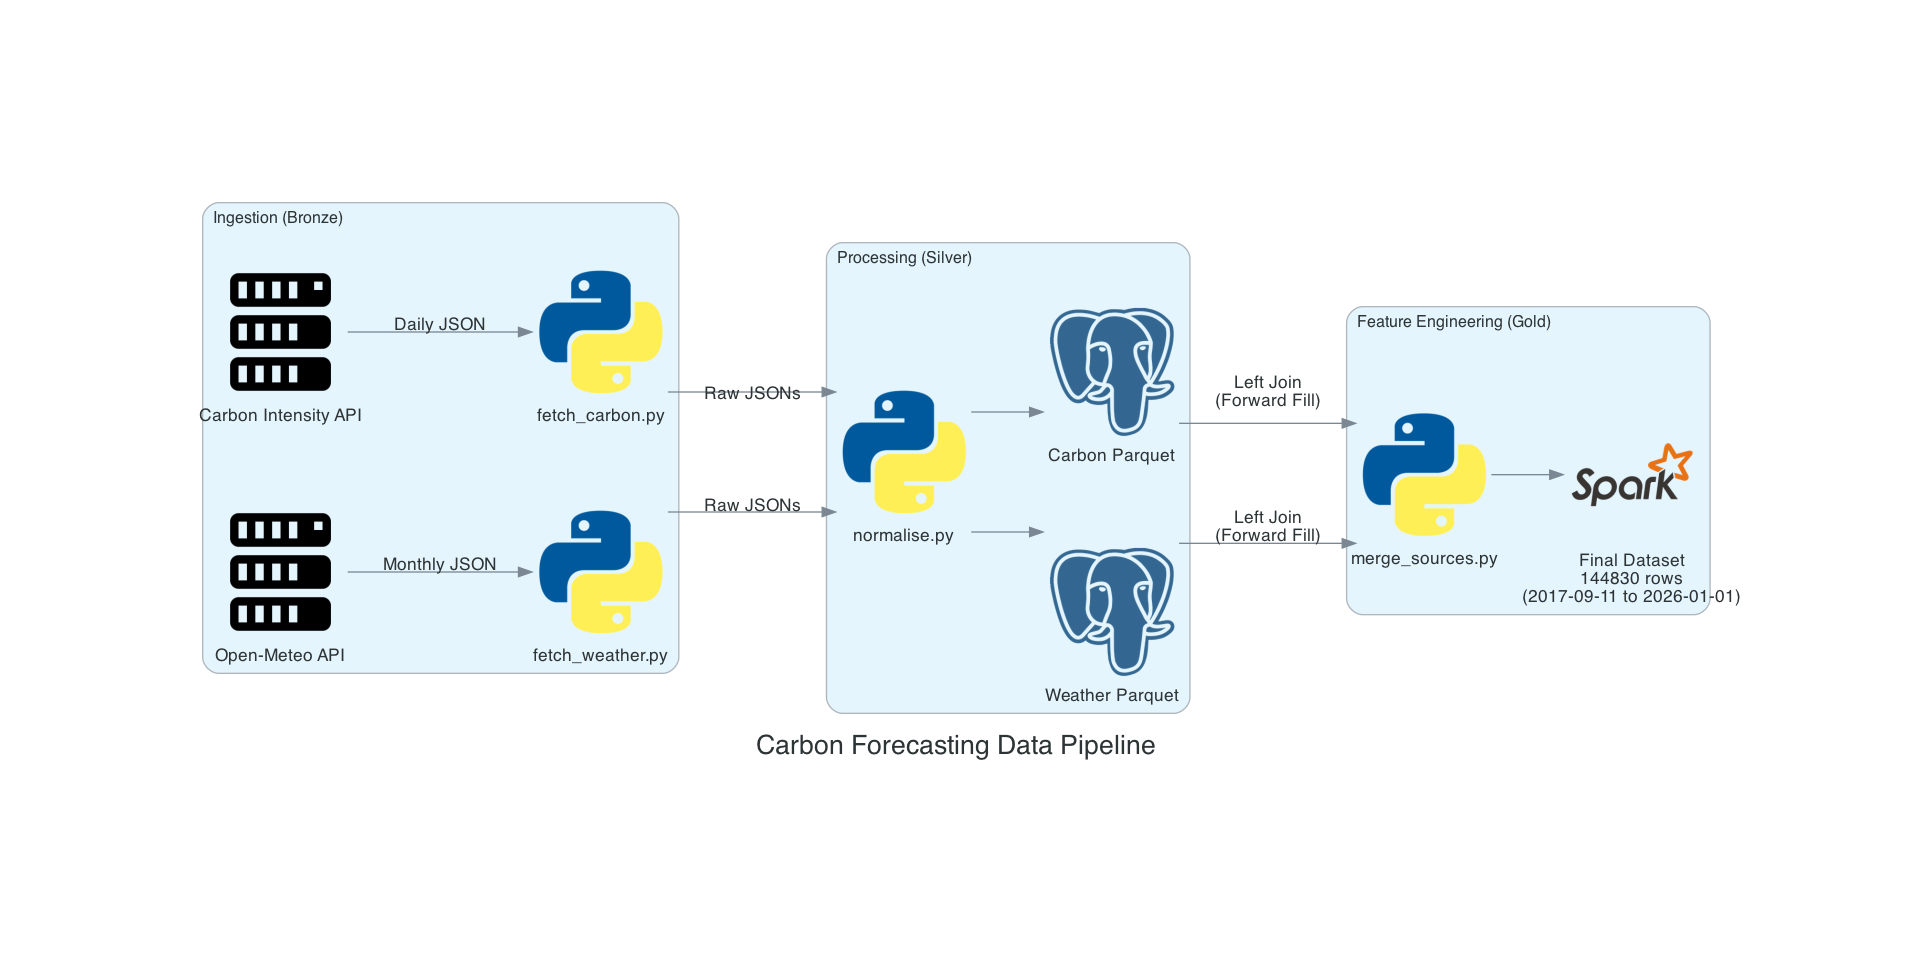
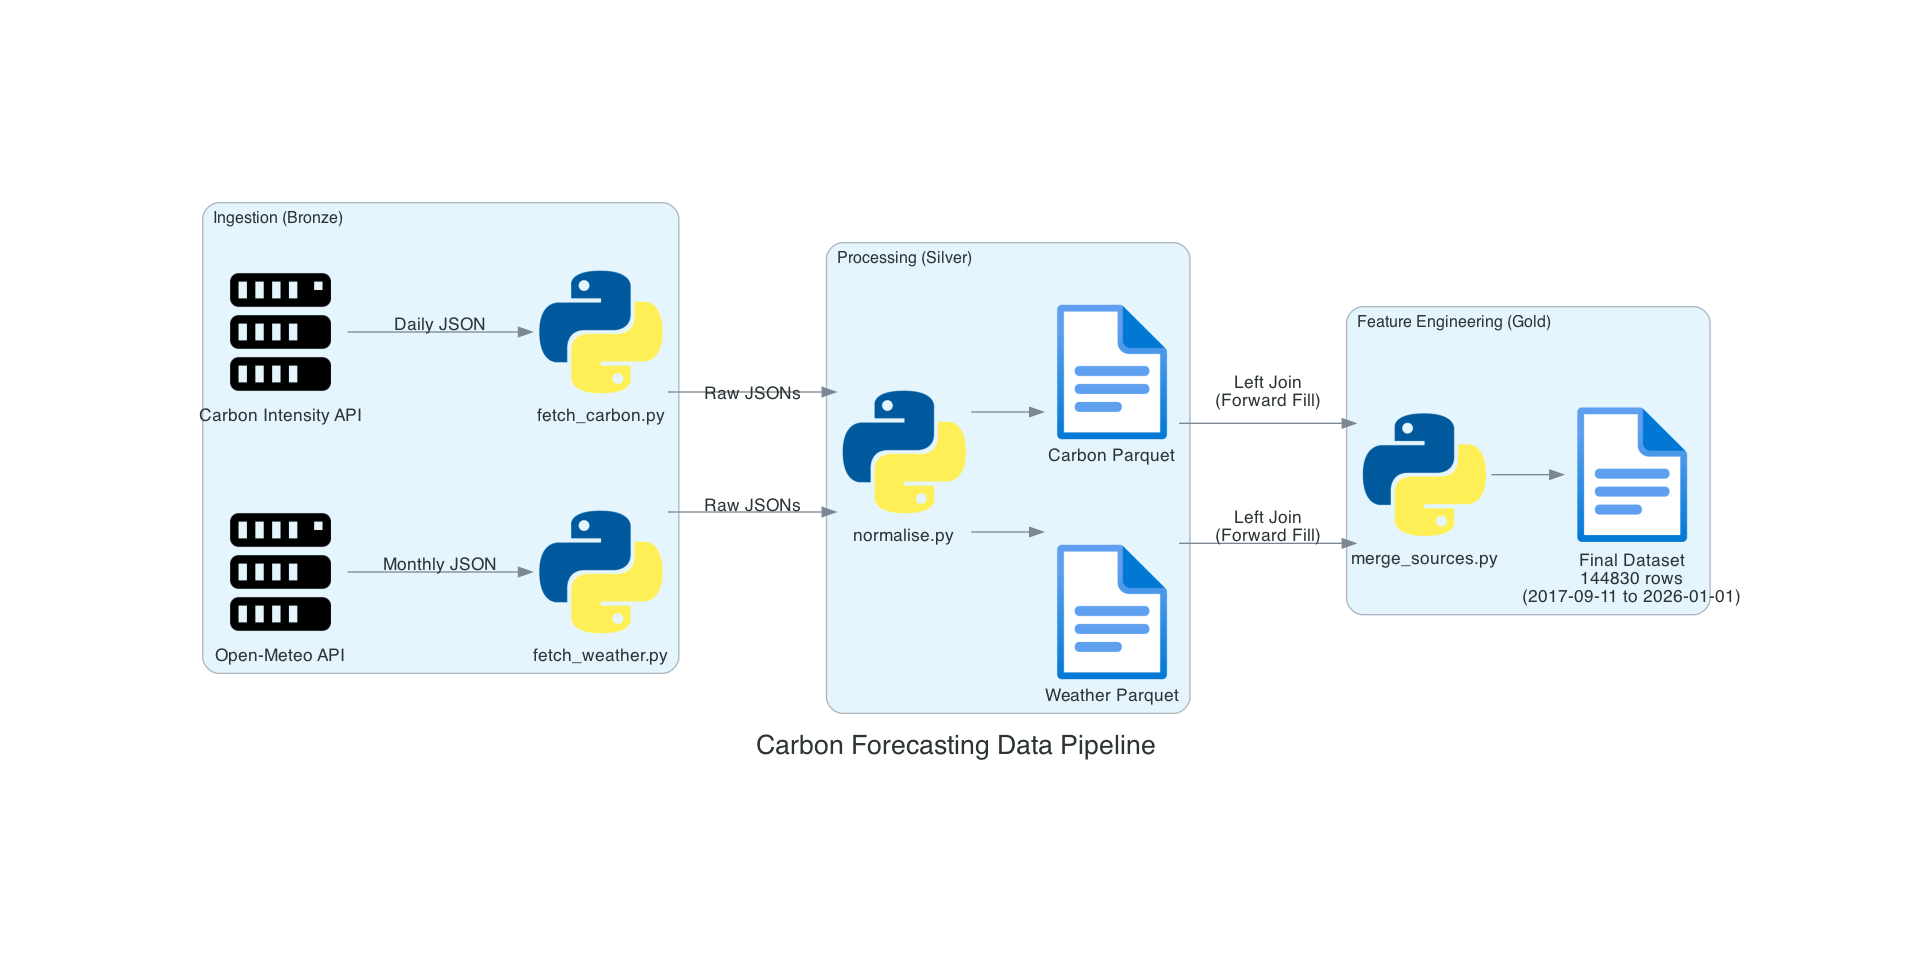
changes to lineage diagramming

Changed region(s): [[0.8019, 0.4251, 0.8944, 0.577], [0.5243, 0.3037, 0.6168, 0.4859], [0.5243, 0.5466, 0.6168, 0.7288]]

diff --git a/src/utils/generate_lineage.py b/src/utils/generate_lineage.py
@@ -1,9 +1,8 @@
 from diagrams import Diagram, Cluster, Edge
-from diagrams.onprem.analytics import Spark
-from diagrams.onprem.database import PostgreSQL
 from diagrams.onprem.compute import Server
 from diagrams.programming.language import Python
-from diagrams.custom import Custom
+from diagrams.azure.general import File
+from diagrams.programming.flowchart import Document
 from pathlib import Path
 import json
 
@@ -46,8 +45,8 @@ def draw_lineage():
             
             [raw_c, raw_w] >> Edge(label="Raw JSONs") >> norm
             
-            parquet_c = PostgreSQL("Carbon Parquet")
-            parquet_w = PostgreSQL("Weather Parquet")
+            parquet_c = File("Carbon Parquet")
+            parquet_w = File("Weather Parquet")
             
             norm >> parquet_c
             norm >> parquet_w
@@ -57,7 +56,7 @@ def draw_lineage():
             
             [parquet_c, parquet_w] >> Edge(label="Left Join\n(Forward Fill)") >> merger
             
-            final_ds = PostgreSQL(f"Final Dataset\n{data_label}")
+            final_ds = File(f"Final Dataset\n{data_label}")
             
             merger >> final_ds
 
